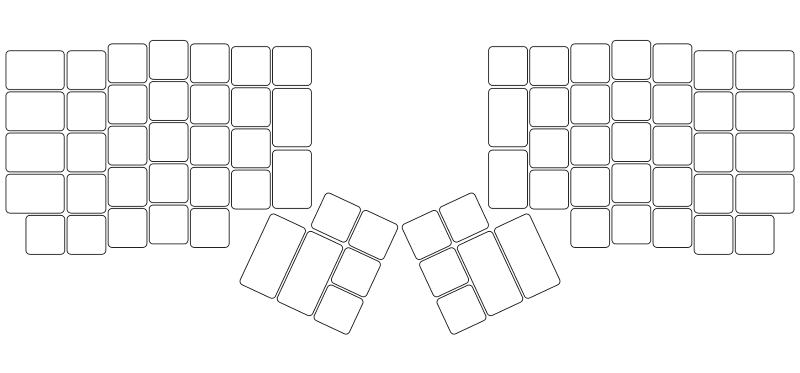
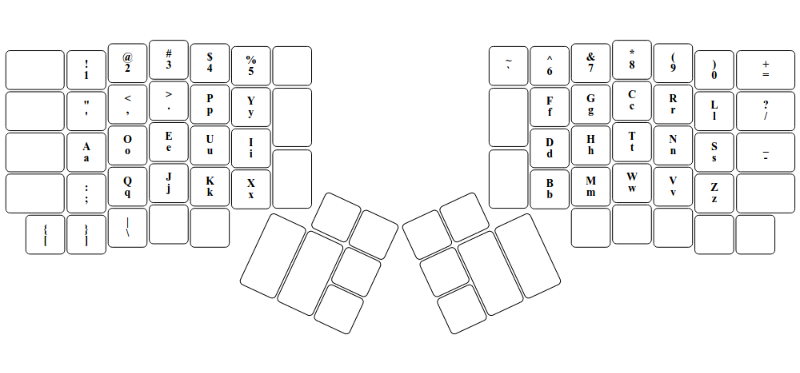
- updated ergodox dvorak base image with key layout - added simple ergodox layout image creator via html svg

diff --git a/app/util/Ergodox_layout_image_template.html b/app/util/Ergodox_layout_image_template.html
@@ -1,0 +1,285 @@
+<html>
+<!-- NOTE: this is a simple ergodox layout SVG creation tool -->
+    <meta http-equiv="Content-Type" content="text/html; charset=UTF-8">
+    <body>
+        <style type="text/css">
+            .k {
+            fill: #ffffff;
+            fill-opacity: 1;
+            stroke: #000000;
+            stroke-width="4";
+            }
+
+            .o {
+            fill: #ffffff;
+            fill-opacity: 0;
+            cursor: pointer;
+            }
+
+            .t {
+            font-size: 14px;
+            text-anchor: middle;
+            font-weight: bold;
+            }
+
+            .h {
+            display: none;
+            }
+        </style>
+        <div id="svg-container">
+<!-- NOTE: native image needs to be 800 x 373 to fit in original page, so width scaling of 80.80808...% and match height aspect -->
+            <svg width="990" height="400" data-id="3" id="l-3" xmlns:svg="http://www.w3.org/2000/svg">
+                <g>
+<!-- Left 1st Row (Top) -->
+                    <rect class="k k-1" width="72.9" height="48.6" x="2.30931" y="29.53557" transform=""></rect>
+                    <text class="t t-1" x="38.75931" y="57.83557" transform=""><tspan x="38.75931" dy="-7">~</tspan><tspan x="38.75931" dy="14">`</tspan></text>
+                    <rect class="o o-1" data-id="1" width="72.9" height="48.6" x="2.30931" y="29.53557" transform=""></rect>
+                    <rect class="k k-2" width="48.6" height="48.6" x="78.75306" y="29.53557" transform=""></rect>
+                    <text class="t t-2" x="103.05306" y="57.83557" transform=""><tspan x="103.05306" dy="-7">!</tspan><tspan x="103.05306" dy="14">1</tspan></text>
+                    <rect class="o o-2" data-id="2" width="48.6" height="48.6" x="78.75306" y="29.53557" transform=""></rect>
+                    <rect class="k k-3" width="48.6" height="48.6" x="130.18806" y="20.95632" transform=""></rect>
+                    <text class="t t-3" x="154.48806" y="49.25632" transform=""><tspan x="154.48806" dy="-7">@</tspan><tspan x="154.48806" dy="14">2</tspan></text>
+                    <rect class="o o-3" data-id="3" width="48.6" height="48.6" x="130.18806" y="20.95632" transform=""></rect>
+                    <rect class="k k-4" width="48.6" height="48.6" x="181.62306" y="16.64253" transform=""></rect>
+                    <text class="t t-4" x="205.92306" y="44.94253" transform=""><tspan x="205.92306" dy="-7">#</tspan><tspan x="205.92306" dy="14">3</tspan></text>
+                    <rect class="o o-4" data-id="4" width="48.6" height="48.6" x="181.62306" y="16.64253" transform=""></rect>
+                    <rect class="k k-5" width="48.6" height="48.6" x="233.05806" y="20.95632" transform=""></rect>
+                    <text class="t t-5" x="257.35806" y="49.25632" transform=""><tspan x="257.35806" dy="-7">$</tspan><tspan x="257.35806" dy="14">4</tspan></text>
+                    <rect class="o o-5" data-id="5" width="48.6" height="48.6" x="233.05806" y="20.95632" transform=""></rect>
+                    <rect class="k k-6" width="48.6" height="48.6" x="284.49306" y="24.39207" transform=""></rect>
+                    <text class="t t-6" x="308.79306" y="52.69207" transform=""><tspan x="308.79306" dy="-7">%</tspan><tspan x="308.79306" dy="14">5</tspan></text>
+                    <rect class="o o-6" data-id="6" width="48.6" height="48.6" x="284.49306" y="24.39207" transform=""></rect>
+                    <rect class="k k-7" width="48.6" height="48.6" x="335.92806" y="24.39207" transform=""></rect>
+                    <text class="t t-7" x="360.22806" y="52.69207" transform="">[-L3]</text>
+                    <rect class="o o-7" data-id="7" width="48.6" height="48.6" x="335.92806" y="24.39207" transform=""></rect>
+<!-- Left 2nd Row -->
+                    <rect class="k k-8" width="72.9" height="48.6" x="2.30931" y="80.96382" transform=""></rect>
+                    <text class="t t-8" x="38.75931" y="109.26382" transform="">Tab</text>
+                    <rect class="o o-8" data-id="8" width="72.9" height="48.6" x="2.30931" y="80.96382" transform=""></rect>
+                    <rect class="k k-9" width="48.6" height="48.6" x="78.75306" y="80.96382" transform=""></rect>
+                    <text class="t t-9" x="103.05306" y="109.26382" transform=""><tspan x="103.05306" dy="-7">Q</tspan><tspan x="103.05306" dy="14">q</tspan></text>
+                    <rect class="o o-9" data-id="9" width="48.6" height="48.6" x="78.75306" y="80.96382" transform=""></rect>
+                    <rect class="k k-10" width="48.6" height="48.6" x="130.18806" y="72.39132" transform=""></rect>
+                    <text class="t t-10" x="154.48806" y="100.69132" transform=""><tspan x="154.48806" dy="-7">W</tspan><tspan x="154.48806" dy="14">w</tspan></text>
+                    <rect class="o o-10" data-id="10" width="48.6" height="48.6" x="130.18806" y="72.39132" transform=""></rect>
+                    <rect class="k k-11" width="48.6" height="48.6" x="181.62306" y="68.07753" transform=""></rect>
+                    <text class="t t-11" x="205.92306" y="96.37753" transform=""><tspan x="205.92306" dy="-7">E</tspan><tspan x="205.92306" dy="14">e</tspan></text>
+                    <rect class="o o-11" data-id="11" width="48.6" height="48.6" x="181.62306" y="68.07753" transform=""></rect>
+                    <rect class="k k-12" width="48.6" height="48.6" x="233.05806" y="72.39132" transform=""></rect>
+                    <text class="t t-12" x="257.35806" y="100.69132" transform=""><tspan x="257.35806" dy="-7">R</tspan><tspan x="257.35806" dy="14">r</tspan></text>
+                    <rect class="o o-12" data-id="12" width="48.6" height="48.6" x="233.05806" y="72.39132" transform=""></rect>
+                    <rect class="k k-13" width="48.6" height="48.6" x="284.49306" y="75.82032" transform=""></rect>
+                    <text class="t t-13" x="308.79306" y="104.12032" transform=""><tspan x="308.79306" dy="-7">T</tspan><tspan x="308.79306" dy="14">t</tspan></text>
+                    <rect class="o o-13" data-id="13" width="48.6" height="48.6" x="284.49306" y="75.82032" transform=""></rect>
+                    <rect class="k k-14" width="48.6" height="72.9" x="335.92806" y="76.52907" transform=""></rect>
+                    <text class="t t-14" x="360.22806" y="116.97907" transform=""><tspan x="360.22806" dy="-7">{</tspan><tspan x="360.22806" dy="14">[</tspan></text>
+                    <rect class="o o-14" data-id="14" width="48.6" height="72.9" x="335.92806" y="76.52907" transform=""></rect>
+<!-- Left 3rd Row -->
+                    <rect class="k k-15" width="72.9" height="48.6" x="2.30931" y="132.39882" transform=""></rect>
+                    <text class="t t-15" x="38.75931" y="160.69882" transform="">L Shift</text>
+                    <rect class="o o-15" data-id="15" width="72.9" height="48.6" x="2.30931" y="132.39882" transform=""></rect>
+                    <rect class="k k-16" width="48.6" height="48.6" x="78.75306" y="132.39882" transform=""></rect>
+                    <text class="t t-16" x="103.05306" y="160.69882" transform=""><tspan x="103.05306" dy="-7">A</tspan><tspan x="103.05306" dy="14">a</tspan></text>
+                    <rect class="o o-16" data-id="16" width="48.6" height="48.6" x="78.75306" y="132.39882" transform=""></rect>
+                    <rect class="k k-17" width="48.6" height="48.6" x="130.18806" y="123.82632" transform=""></rect>
+                    <text class="t t-17" x="154.48806" y="152.12632" transform=""><tspan x="154.48806" dy="-7">S</tspan><tspan x="154.48806" dy="14">s</tspan></text>
+                    <rect class="o o-17" data-id="17" width="48.6" height="48.6" x="130.18806" y="123.82632" transform=""></rect>
+                    <rect class="k k-18" width="48.6" height="48.6" x="181.62306" y="119.51253" transform=""></rect>
+                    <text class="t t-18" x="205.92306" y="147.81253" transform=""><tspan x="205.92306" dy="-7">D</tspan><tspan x="205.92306" dy="14">d</tspan></text>
+                    <rect class="o o-18" data-id="18" width="48.6" height="48.6" x="181.62306" y="119.51253" transform=""></rect>
+                    <rect class="k k-19" width="48.6" height="48.6" x="233.05806" y="123.82632" transform=""></rect>
+                    <text class="t t-19" x="257.35806" y="152.12632" transform=""><tspan x="257.35806" dy="-7">F</tspan><tspan x="257.35806" dy="14">f</tspan></text>
+                    <rect class="o o-19" data-id="19" width="48.6" height="48.6" x="233.05806" y="123.82632" transform=""></rect>
+                    <rect class="k k-20" width="48.6" height="48.6" x="284.49306" y="127.25532" transform=""></rect>
+                    <text class="t t-20" x="308.79306" y="155.55532" transform=""><tspan x="308.79306" dy="-7">G</tspan><tspan x="308.79306" dy="14">g</tspan></text>
+                    <rect class="o o-20" data-id="20" width="48.6" height="48.6" x="284.49306" y="127.25532" transform=""></rect>
+<!-- Left 4th Row -->
+                    <rect class="k k-21" width="72.9" height="48.6" x="2.30931" y="183.83382" transform=""></rect>
+                    <text class="t t-21" x="38.75931" y="212.13382" transform="">L Ctrl</text>
+                    <rect class="o o-21" data-id="21" width="72.9" height="48.6" x="2.30931" y="183.83382" transform=""></rect>
+                    <rect class="k k-22" width="48.6" height="48.6" x="78.75306" y="183.83382" transform=""></rect>
+                    <text class="t t-22" x="103.05306" y="212.13382" transform=""><tspan x="103.05306" dy="-7">Z</tspan><tspan x="103.05306" dy="14">z</tspan></text>
+                    <rect class="o o-22" data-id="22" width="48.6" height="48.6" x="78.75306" y="183.83382" transform=""></rect>
+                    <rect class="k k-23" width="48.6" height="48.6" x="130.18806" y="175.26132" transform=""></rect>
+                    <text class="t t-23" x="154.48806" y="203.56132" transform=""><tspan x="154.48806" dy="-7">X</tspan><tspan x="154.48806" dy="14">x</tspan></text>
+                    <rect class="o o-23" data-id="23" width="48.6" height="48.6" x="130.18806" y="175.26132" transform=""></rect>
+                    <rect class="k k-24" width="48.6" height="48.6" x="181.62306" y="170.94753" transform=""></rect>
+                    <text class="t t-24" x="205.92306" y="199.24753" transform=""><tspan x="205.92306" dy="-7">C</tspan><tspan x="205.92306" dy="14">c</tspan></text>
+                    <rect class="o o-24" data-id="24" width="48.6" height="48.6" x="181.62306" y="170.94753" transform=""></rect>
+                    <rect class="k k-25" width="48.6" height="48.6" x="233.05806" y="175.26132" transform=""></rect>
+                    <text class="t t-25" x="257.35806" y="203.56132" transform=""><tspan x="257.35806" dy="-7">V</tspan><tspan x="257.35806" dy="14">v</tspan></text>
+                    <rect class="o o-25" data-id="25" width="48.6" height="48.6" x="233.05806" y="175.26132" transform=""></rect>
+                    <rect class="k k-26" width="48.6" height="48.6" x="284.49306" y="178.69032" transform=""></rect>
+                    <text class="t t-26" x="308.79306" y="206.99032" transform=""><tspan x="308.79306" dy="-7">B</tspan><tspan x="308.79306" dy="14">b</tspan></text>
+                    <rect class="o o-26" data-id="26" width="48.6" height="48.6" x="284.49306" y="178.69032" transform=""></rect>
+                    <rect class="k k-27" width="48.6" height="72.9" x="335.92806" y="153.68157" transform=""></rect>
+                    <text class="t t-27" x="360.22806" y="194.13157" transform=""><tspan x="360.22806" dy="-7">_</tspan><tspan x="360.22806" dy="14">-</tspan></text>
+                    <rect class="o o-27" data-id="27" width="48.6" height="72.9" x="335.92806" y="153.68157" transform=""></rect>
+<!-- Left 5th Row (Bottom) -->
+                    <rect class="k k-28" width="48.6" height="48.6" x="27.31806" y="235.26882" transform=""></rect>
+                    <text class="t t-28" x="51.61806" y="263.56882" transform="">L Alt</text>
+                    <rect class="o o-28" data-id="28" width="48.6" height="48.6" x="27.31806" y="235.26882" transform=""></rect>
+                    <rect class="k k-29" width="48.6" height="48.6" x="78.75306" y="235.26882" transform=""></rect>
+                    <text class="t t-29" x="103.05306" y="263.56882" transform=""><tspan x="103.05306" dy="-7">Caps</tspan><tspan x="103.05306" dy="14">Lock</tspan></text>
+                    <rect class="o o-29" data-id="29" width="48.6" height="48.6" x="78.75306" y="235.26882" transform=""></rect>
+                    <rect class="k k-30" width="48.6" height="48.6" x="130.18806" y="226.69632" transform=""></rect>
+                    <text class="t t-30" x="154.48806" y="254.99632" transform=""><tspan x="154.48806" dy="-7">Print</tspan><tspan x="154.48806" dy="14">Screen</tspan></text>
+                    <rect class="o o-30" data-id="30" width="48.6" height="48.6" x="130.18806" y="226.69632" transform=""></rect>
+                    <rect class="k k-31" width="48.6" height="48.6" x="181.62306" y="222.38253" transform=""></rect>
+                    <text class="t t-31" x="205.92306" y="250.68253" transform=""><tspan x="205.92306" dy="-7">Scroll</tspan><tspan x="205.92306" dy="14">Lock</tspan></text>
+                    <rect class="o o-31" data-id="31" width="48.6" height="48.6" x="181.62306" y="222.38253" transform=""></rect>
+                    <rect class="k k-32" width="48.6" height="48.6" x="233.05806" y="226.69632" transform=""></rect>
+                    <text class="t t-32" x="257.35806" y="254.99632" transform="">Pause</text>
+                    <rect class="o o-32" data-id="32" width="48.6" height="48.6" x="233.05806" y="226.69632" transform=""></rect>
+<!-- Left Thumb -->
+                    <rect class="k k-33" width="48.6" height="48.6" x="391.08015" y="213.71391" transform="rotate(25,415.38015,238.01391)"></rect>
+                    <text class="t t-33" x="415.38015" y="242.01391" transform="rotate(25,415.38015,238.01391)">Esc</text>
+                    <rect class="o o-33" data-id="33" width="48.6" height="48.6" x="391.08015" y="213.71391" transform="rotate(25,415.38015,238.01391)"></rect>
+                    <rect class="k k-34" width="48.6" height="48.6" x="437.69403" y="235.44702" transform="rotate(25,461.99403,259.74702)"></rect>
+                    <text class="t t-34" x="461.99403" y="263.74702" transform="rotate(25,461.99403,259.74702)">L Win</text>
+                    <rect class="o o-34" data-id="34" width="48.6" height="48.6" x="437.69403" y="235.44702" transform="rotate(25,461.99403,259.74702)"></rect>
+                    <rect class="k k-37" width="48.6" height="48.6" x="415.96092" y="282.0609" transform="rotate(25,440.26092,306.3609)"></rect>
+                    <text class="t t-37" x="440.26092" y="310.3609" transform="rotate(25,440.26092,306.3609)">Home</text>
+                    <rect class="o o-37" data-id="37" width="48.6" height="48.6" x="415.96092" y="282.0609" transform="rotate(25,440.26092,306.3609)"></rect>
+                    <rect class="k k-38" width="48.6" height="97.2" x="311.8635" y="237.59838" transform="rotate(25,336.1635,286.19838)"></rect>
+                    <text class="t t-38" x="336.1635" y="290.19838" transform="rotate(25,336.1635,286.19838)">Bkspc</text>
+                    <rect class="o o-38" data-id="38" width="48.6" height="97.2" x="311.8635" y="237.59838" transform="rotate(25,336.1635,286.19838)"></rect>
+                    <rect class="k k-39" width="48.6" height="97.2" x="358.47738" y="259.33824" transform="rotate(25,382.77738,307.93824)"></rect>
+                    <text class="t t-39" x="382.77738" y="311.93824" transform="rotate(25,382.77738,307.93824)">Del</text>
+                    <rect class="o o-39" data-id="39" width="48.6" height="97.2" x="358.47738" y="259.33824" transform="rotate(25,382.77738,307.93824)"></rect>
+                    <rect class="k k-40" width="48.6" height="48.6" x="394.22106" y="328.68153" transform="rotate(25,418.52106,352.98153)"></rect>
+                    <text class="t t-40" x="418.52106" y="356.98153" transform="rotate(25,418.52106,352.98153)">End</text>
+                    <rect class="o o-40" data-id="40" width="48.6" height="48.6" x="394.22106" y="328.68153" transform="rotate(25,418.52106,352.98153)"></rect>
+<!-- Right 1st Row (Top) -->
+                    <rect class="k k-47" width="72.9" height="48.6" x="915.69069" y="29.53557" transform=""></rect>
+                    <text class="t t-47" x="952.14069" y="57.83557" transform=""><tspan x="952.14069" dy="-7">"</tspan><tspan x="952.14069" dy="14">'</tspan></text>
+                    <rect class="o o-47" data-id="47" width="72.9" height="48.6" x="915.69069" y="29.53557" transform=""></rect>
+                    <rect class="k k-46" width="48.6" height="48.6" x="863.54694" y="29.53557" transform=""></rect>
+                    <text class="t t-46" x="887.84694" y="57.83557" transform=""><tspan x="887.84694" dy="-7">)</tspan><tspan x="887.84694" dy="14">0</tspan></text>
+                    <rect class="o o-46" data-id="46" width="48.6" height="48.6" x="863.54694" y="29.53557" transform=""></rect>
+                    <rect class="k k-45" width="48.6" height="48.6" x="812.11194" y="20.95632" transform=""></rect>
+                    <text class="t t-45" x="836.41194" y="49.25632" transform=""><tspan x="836.41194" dy="-7">(</tspan><tspan x="836.41194" dy="14">9</tspan></text>
+                    <rect class="o o-45" data-id="45" width="48.6" height="48.6" x="812.11194" y="20.95632" transform=""></rect>
+                    <rect class="k k-44" width="48.6" height="48.6" x="760.67694" y="16.64253" transform=""></rect>
+                    <text class="t t-44" x="784.97694" y="44.94253" transform=""><tspan x="784.97694" dy="-7">*</tspan><tspan x="784.97694" dy="14">8</tspan></text>
+                    <rect class="o o-44" data-id="44" width="48.6" height="48.6" x="760.67694" y="16.64253" transform=""></rect>
+                    <rect class="k k-43" width="48.6" height="48.6" x="709.24194" y="20.95632" transform=""></rect>
+                    <text class="t t-43" x="733.54194" y="49.25632" transform=""><tspan x="733.54194" dy="-7">&amp;</tspan><tspan x="733.54194" dy="14">7</tspan></text>
+                    <rect class="o o-43" data-id="43" width="48.6" height="48.6" x="709.24194" y="20.95632" transform=""></rect>
+                    <rect class="k k-42" width="48.6" height="48.6" x="657.80694" y="24.39207" transform=""></rect>
+                    <text class="t t-42" x="682.10694" y="52.69207" transform=""><tspan x="682.10694" dy="-7">^</tspan><tspan x="682.10694" dy="14">6</tspan></text>
+                    <rect class="o o-42" data-id="42" width="48.6" height="48.6" x="657.80694" y="24.39207" transform=""></rect>
+                    <rect class="k k-41" width="48.6" height="48.6" x="606.37194" y="24.39207" transform=""></rect>
+                    <text class="t t-41" x="630.67194" y="52.69207" transform="">[+L4]</text>
+                    <rect class="o o-41" data-id="41" width="48.6" height="48.6" x="606.37194" y="24.39207" transform=""></rect>
+<!-- Right 2nd Row -->
+                    <rect class="k k-54" width="72.9" height="48.6" x="915.69069" y="80.96382" transform=""></rect>
+                    <text class="t t-54" x="952.14069" y="109.26382" transform=""><tspan x="952.14069" dy="-7">|</tspan><tspan x="952.14069" dy="14">\</tspan></text>
+                    <rect class="o o-54" data-id="54" width="72.9" height="48.6" x="915.69069" y="80.96382" transform=""></rect>
+                    <rect class="k k-53" width="48.6" height="48.6" x="863.54694" y="80.96382" transform=""></rect>
+                    <text class="t t-53" x="887.84694" y="109.26382" transform=""><tspan x="887.84694" dy="-7">P</tspan><tspan x="887.84694" dy="14">p</tspan></text>
+                    <rect class="o o-53" data-id="53" width="48.6" height="48.6" x="863.54694" y="80.96382" transform=""></rect>
+                    <rect class="k k-52" width="48.6" height="48.6" x="812.11194" y="72.39132" transform=""></rect>
+                    <text class="t t-52" x="836.41194" y="100.69132" transform=""><tspan x="836.41194" dy="-7">O</tspan><tspan x="836.41194" dy="14">o</tspan></text>
+                    <rect class="o o-52" data-id="52" width="48.6" height="48.6" x="812.11194" y="72.39132" transform=""></rect>
+                    <rect class="k k-51" width="48.6" height="48.6" x="760.67694" y="68.07753" transform=""></rect>
+                    <text class="t t-51" x="784.97694" y="96.37753" transform=""><tspan x="784.97694" dy="-7">I</tspan><tspan x="784.97694" dy="14">i</tspan></text>
+                    <rect class="o o-51" data-id="51" width="48.6" height="48.6" x="760.67694" y="68.07753" transform=""></rect>
+                    <rect class="k k-50" width="48.6" height="48.6" x="709.24194" y="72.39132" transform=""></rect>
+                    <text class="t t-50" x="733.54194" y="100.69132" transform=""><tspan x="733.54194" dy="-7">U</tspan><tspan x="733.54194" dy="14">u</tspan></text>
+                    <rect class="o o-50" data-id="50" width="48.6" height="48.6" x="709.24194" y="72.39132" transform=""></rect>
+                    <rect class="k k-49" width="48.6" height="48.6" x="657.80694" y="75.82032" transform=""></rect>
+                    <text class="t t-49" x="682.10694" y="104.12032" transform=""><tspan x="682.10694" dy="-7">Y</tspan><tspan x="682.10694" dy="14">y</tspan></text>
+                    <rect class="o o-49" data-id="49" width="48.6" height="48.6" x="657.80694" y="75.82032" transform=""></rect>
+                    <rect class="k k-48" width="48.6" height="72.9" x="606.37194" y="76.52907" transform=""></rect>
+                    <text class="t t-48" x="630.67194" y="116.97907" transform=""><tspan x="630.67194" dy="-7">}</tspan><tspan x="630.67194" dy="14">]</tspan></text>
+                    <rect class="o o-48" data-id="48" width="48.6" height="72.9" x="606.37194" y="76.52907" transform=""></rect>
+<!-- Right 3rd Row -->
+                    <rect class="k k-60" width="72.9" height="48.6" x="915.69069" y="132.39882" transform=""></rect>
+                    <text class="t t-60" x="952.14069" y="160.69882" transform="">R Shift</text>
+                    <rect class="o o-60" data-id="60" width="72.9" height="48.6" x="915.69069" y="132.39882" transform=""></rect>
+                    <rect class="k k-59" width="48.6" height="48.6" x="863.54694" y="132.39882" transform=""></rect>
+                    <text class="t t-59" x="887.84694" y="160.69882" transform=""><tspan x="887.84694" dy="-7">:</tspan><tspan x="887.84694" dy="14">;</tspan></text>
+                    <rect class="o o-59" data-id="59" width="48.6" height="48.6" x="863.54694" y="132.39882" transform=""></rect>
+                    <rect class="k k-58" width="48.6" height="48.6" x="812.11194" y="123.82632" transform=""></rect>
+                    <text class="t t-58" x="836.41194" y="152.12632" transform=""><tspan x="836.41194" dy="-7">L</tspan><tspan x="836.41194" dy="14">l</tspan></text>
+                    <rect class="o o-58" data-id="58" width="48.6" height="48.6" x="812.11194" y="123.82632" transform=""></rect>
+                    <rect class="k k-57" width="48.6" height="48.6" x="760.67694" y="119.51253" transform=""></rect>
+                    <text class="t t-57" x="784.97694" y="147.81253" transform=""><tspan x="784.97694" dy="-7">K</tspan><tspan x="784.97694" dy="14">k</tspan></text>
+                    <rect class="o o-57" data-id="57" width="48.6" height="48.6" x="760.67694" y="119.51253" transform=""></rect>
+                    <rect class="k k-56" width="48.6" height="48.6" x="709.24194" y="123.82632" transform=""></rect>
+                    <text class="t t-56" x="733.54194" y="152.12632" transform=""><tspan x="733.54194" dy="-7">J</tspan><tspan x="733.54194" dy="14">j</tspan></text>
+                    <rect class="o o-56" data-id="56" width="48.6" height="48.6" x="709.24194" y="123.82632" transform=""></rect>
+                    <rect class="k k-55" width="48.6" height="48.6" x="657.80694" y="127.25532" transform=""></rect>
+                    <text class="t t-55" x="682.10694" y="155.55532" transform=""><tspan x="682.10694" dy="-7">H</tspan><tspan x="682.10694" dy="14">h</tspan></text>
+                    <rect class="o o-55" data-id="55" width="48.6" height="48.6" x="657.80694" y="127.25532" transform=""></rect>
+<!-- Right 4th Row -->
+                    <rect class="k k-67" width="72.9" height="48.6" x="915.69069" y="183.83382" transform=""></rect>
+                    <text class="t t-67" x="952.14069" y="212.13382" transform="">R Ctrl</text>
+                    <rect class="o o-67" data-id="67" width="72.9" height="48.6" x="915.69069" y="183.83382" transform=""></rect>
+                    <rect class="k k-66" width="48.6" height="48.6" x="863.54694" y="183.83382" transform=""></rect>
+                    <text class="t t-66" x="887.84694" y="212.13382" transform=""><tspan x="887.84694" dy="-7">?</tspan><tspan x="887.84694" dy="14">/</tspan></text>
+                    <rect class="o o-66" data-id="66" width="48.6" height="48.6" x="863.54694" y="183.83382" transform=""></rect>
+                    <rect class="k k-65" width="48.6" height="48.6" x="812.11194" y="175.26132" transform=""></rect>
+                    <text class="t t-65" x="836.41194" y="203.56132" transform=""><tspan x="836.41194" dy="-7">&gt;</tspan><tspan x="836.41194" dy="14">.</tspan></text>
+                    <rect class="o o-65" data-id="65" width="48.6" height="48.6" x="812.11194" y="175.26132" transform=""></rect>
+                    <rect class="k k-64" width="48.6" height="48.6" x="760.67694" y="170.94753" transform=""></rect>
+                    <text class="t t-64" x="784.97694" y="199.24753" transform=""><tspan x="784.97694" dy="-7">&lt;</tspan><tspan x="784.97694" dy="14">,</tspan></text>
+                    <rect class="o o-64" data-id="64" width="48.6" height="48.6" x="760.67694" y="170.94753" transform=""></rect>
+                    <rect class="k k-63" width="48.6" height="48.6" x="709.24194" y="175.26132" transform=""></rect>
+                    <text class="t t-63" x="733.54194" y="203.56132" transform=""><tspan x="733.54194" dy="-7">M</tspan><tspan x="733.54194" dy="14">m</tspan></text>
+                    <rect class="o o-63" data-id="63" width="48.6" height="48.6" x="709.24194" y="175.26132" transform=""></rect>
+                    <rect class="k k-62" width="48.6" height="48.6" x="657.80694" y="178.69032" transform=""></rect>
+                    <text class="t t-62" x="682.10694" y="206.99032" transform=""><tspan x="682.10694" dy="-7">N</tspan><tspan x="682.10694" dy="14">n</tspan></text>
+                    <rect class="o o-62" data-id="62" width="48.6" height="48.6" x="657.80694" y="178.69032" transform=""></rect>
+                    <rect class="k k-61" width="48.6" height="72.9" x="606.37194" y="153.68157" transform=""></rect>
+                    <text class="t t-61" x="630.67194" y="194.13157" transform=""><tspan x="630.67194" dy="-7">+</tspan><tspan x="630.67194" dy="14">=</tspan></text>
+                    <rect class="o o-61" data-id="61" width="48.6" height="72.9" x="606.37194" y="153.68157" transform=""></rect>
+<!-- Right 5th Row (Bottom) -->
+                    <rect class="k k-72" width="48.6" height="48.6" x="914.98194" y="235.26882" transform=""></rect>
+                    <text class="t t-72" x="939.28194" y="263.56882" transform="">R Alt</text>
+                    <rect class="o o-72" data-id="72" width="48.6" height="48.6" x="914.98194" y="235.26882" transform=""></rect>
+                    <rect class="k k-71" width="48.6" height="48.6" x="863.54694" y="235.26882" transform=""></rect>
+                    <text class="t t-71" x="887.84694" y="263.56882" transform="">→</text>
+                    <rect class="o o-71" data-id="71" width="48.6" height="48.6" x="863.54694" y="235.26882" transform=""></rect>
+                    <rect class="k k-70" width="48.6" height="48.6" x="812.11194" y="226.69632" transform=""></rect>
+                    <text class="t t-70" x="836.41194" y="254.99632" transform="">↑</text>
+                    <rect class="o o-70" data-id="70" width="48.6" height="48.6" x="812.11194" y="226.69632" transform=""></rect>
+                    <rect class="k k-69" width="48.6" height="48.6" x="760.67694" y="222.38253" transform=""></rect>
+                    <text class="t t-69" x="784.97694" y="250.68253" transform="">↓</text>
+                    <rect class="o o-69" data-id="69" width="48.6" height="48.6" x="760.67694" y="222.38253" transform=""></rect>
+                    <rect class="k k-68" width="48.6" height="48.6" x="709.24194" y="226.69632" transform=""></rect>
+                    <text class="t t-68" x="733.54194" y="254.99632" transform="">←</text>
+                    <rect class="o o-68" data-id="68" width="48.6" height="48.6" x="709.24194" y="226.69632" transform=""></rect>
+<!-- Right Thumb -->
+                    <rect class="k k-74" width="48.6" height="48.6" x="551.21985" y="213.71391" transform="rotate(-25,575.51985,238.01391)"></rect>
+                    <text class="t t-74" x="575.51985" y="242.01391" transform="rotate(-25,575.51985,238.01391)">Ins</text>
+                    <rect class="o o-74" data-id="74" width="48.6" height="48.6" x="551.21985" y="213.71391" transform="rotate(-25,575.51985,238.01391)"></rect>
+                    <rect class="k k-73" width="48.6" height="48.6" x="504.60597" y="235.44702" transform="rotate(-25,528.90597,259.74702)"></rect>
+                    <text class="t t-73" x="528.90597" y="263.74702" transform="rotate(-25,528.90597,259.74702)">R Win</text>
+                    <rect class="o o-73" data-id="73" width="48.6" height="48.6" x="504.60597" y="235.44702" transform="rotate(-25,528.90597,259.74702)"></rect>
+                    <rect class="k k-75" width="48.6" height="48.6" x="526.33908" y="282.0609" transform="rotate(-25,550.63908,306.3609)"></rect>
+                    <text class="t t-75" x="550.63908" y="310.3609" transform="rotate(-25,550.63908,306.3609)">Pg Up</text>
+                    <rect class="o o-75" data-id="75" width="48.6" height="48.6" x="526.33908" y="282.0609" transform="rotate(-25,550.63908,306.3609)"></rect>
+                    <rect class="k k-80" width="48.6" height="97.2" x="630.4365" y="237.59838" transform="rotate(-25,654.7365,286.19838)"></rect>
+                    <text class="t t-80" x="654.7365" y="290.19838" transform="rotate(-25,654.7365,286.19838)">Space</text>
+                    <rect class="o o-80" data-id="80" width="48.6" height="97.2" x="630.4365" y="237.59838" transform="rotate(-25,654.7365,286.19838)"></rect>
+                    <rect class="k k-79" width="48.6" height="97.2" x="583.82262" y="259.33824" transform="rotate(-25,608.12262,307.93824)"></rect>
+                    <text class="t t-79" x="608.12262" y="311.93824" transform="rotate(-25,608.12262,307.93824)">↵</text>
+                    <rect class="o o-79" data-id="79" width="48.6" height="97.2" x="583.82262" y="259.33824" transform="rotate(-25,608.12262,307.93824)"></rect>
+                    <rect class="k k-78" width="48.6" height="48.6" x="548.07894" y="328.68153" transform="rotate(-25,572.37894,352.98153)"></rect>
+                    <text class="t t-78" x="572.37894" y="356.98153" transform="rotate(-25,572.37894,352.98153)">Pg Dn</text>
+                    <rect class="o o-78" data-id="78" width="48.6" height="48.6" x="548.07894" y="328.68153" transform="rotate(-25,572.37894,352.98153)"></rect>
+                </g>
+            </svg>
+        </div>
+        <script>
+            var rects = document.getElementsByTagName("rect");
+            for (var i = 0; i < rects.length; i++) {
+                var rect = rects[i];
+                rect.setAttributeNS(null, "rx", "5");
+                rect.setAttributeNS(null, "ry", "5");
+            }
+        </script>
+    </body>
+</html>

diff --git a/app/keyboard-layouts.js b/app/keyboard-layouts.js
@@ -1243,7 +1243,7 @@ app.LAYOUTS = {
         "/": [765, 111],
 
         "notset": [35, 111],
-        "notset": [86, 111],
+        "\"": [86, 111],
         "<": [127, 104],
         ">": [169, 101],
         "P": [210, 104],
@@ -1321,21 +1321,21 @@ app.LAYOUTS = {
         "notset": [765, 194],
         
         // 1 row (bottom) /////////
-        "[": [35, 208],
-        "]": [92, 208],
-        "\\": [138, 208],
+        "[": [44, 235],
+        "]": [86, 235],
+        "\\": [127, 228],
         "notset": [183, 208],
         "notset": [229, 208],
 
-        "{": [571, 208],
-        "}": [617, 208],
-        "|": [662, 208],
+        "notset": [571, 208],
+        "notset": [617, 208],
+        "notset": [662, 208],
         "notset": [708, 208],
         "notset": [754, 208],
         
-        "notset": [35, 208],
-        "notset": [92, 208],
-        "notset": [138, 208],
+        "{": [44, 235],
+        "}": [86, 235],
+        "|": [127, 228],
         "notset": [183, 208],
         "notset": [229, 208],
 
